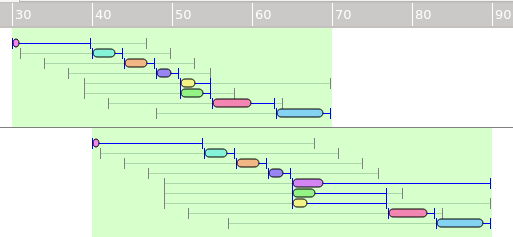
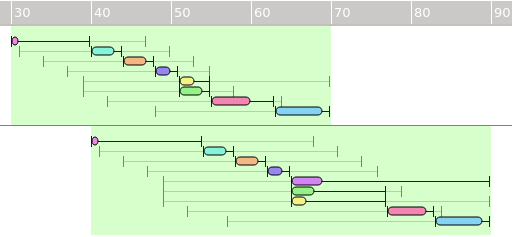
producten tekst erbij en plaatje flex-interval aangepast

Changed region(s): [[0.0, 0.1477, 1.0, 1.0], [0.0, 0.0, 1.0, 0.1181]]

diff --git a/verslag/eindverslag/content/producten.tex b/verslag/eindverslag/content/producten.tex
@@ -18,13 +18,14 @@ Hoe het toevoegen van rows gebeurt enzo...
 \subsection{Interface}
 De grootste veranderingen aan de interface zijn het weergeven van de chains en de flexibiliteitsintervallen. Deze worden als volgt in de interface weergegeven:
 
-\begin{figure}
-\includegraphics[width=\textwidth]{../images/GUIfinal.png}
+\begin{figure}[H]
+\centering
+\includegraphics[width=.95\textwidth]{../images/GUIfinal.png}
 \caption{De grafische gebruikersinterface.}
 \label{fig:GUIfinal}
 \end{figure}
 
-In het bovenstaande figuur is in de rechterbovenhoek een schuifbalk te zien, waarmee verschillende stappen van het proces van de solver laten zien kunnen worden in de interface. Naar zo'n stap, waarin de toestand van alle activiteiten opgeslagen in, zal vanaf nu gerefereerd worden als een frame. De volgende frames worden toegevoegd na het uitvoeren van een solver:
+In Figuur \ref{fig:GUIfinal} is in de rechterbovenhoek een schuifbalk te zien, waarmee verschillende stappen van het proces van de solver laten zien kunnen worden in de interface. Naar zo'n stap, waarin de toestand van alle activiteiten opgeslagen in, zal vanaf nu gerefereerd worden als een frame. De volgende frames worden toegevoegd na het uitvoeren van een solver:
 \begin{itemize}
 \item Een frame met de begintoestand van de instantie.
 \item Voor elke voorrangsrelatie die tijdens het ESTA$^+$ algoritme toegevoegd wordt, een nieuw frame met daarop alleen de nieuwe voorrangsrelatie en eventuele veranderingen in starttijden van de activiteiten.
@@ -38,12 +39,22 @@ In het frame dat in Figuur \ref{fig:GUIfinal} zichtbaar is, wordt een chain van 
 
 %Zodra de solver klaar is met het vinden van een oplossing voor de huidige instantie, wordt deze oplossing als output gegeven en geparsed door de planner. Vervolgens worden in de interface voor elke resource eerst een frame met alle chains van deze resource en toegevoegd en daarna voor al deze chains een aparte frame.
 
-- weergeven van flexibiliteitsintervals
-- verschuiven van taken/resources
+\subsubsection*{Flexibiliteitsintervallen}
+Zoals in Figuur \ref{fig:flex-interval} is te zien, is het ook mogelijk om het flexibiliteitsinterval van elke activiteit weer te geven in de interface. Activiteiten kunnen vrij bewegen binnen het flexibiliteitsinterval zonder dat er conflicten ontstaan met andere activiteiten. Als de intervallen worden weergegeven, is het niet mogelijk om de activiteiten buiten het bijbehoorende interval te verplaatsen. Ook is het niet mogelijk activiteiten zodanig langer te maken dat ze buiten hun flexibiliteitsinterval vallen. Die twee ==dingen== zijn niet mogelijk om ervoor te zorgen dat het schema flexibel blijft. Als het weergeven van de flexibiliteitsintervallen wordt uitgezet kunnen de activiteiten wel verplaatst en vergroot worden buiten het flexibiliteitsinterval.
 
-Waar eerst instanties gesloten konden worden met een grote rode knop in de menubalk, is er nu op elke tab van een instantie een kruisje geplaatst, waarmee de instantie gesloten kan worden. Dit ontwerp ziet er intu\"itief uit en wordt ook gebruikt door bijvoorbeeld de veelgebruikt browser Google Chrome.
+\begin{figure}[H]
+\center
+\includegraphics[width=.7\textwidth]{../images/flex-interval.png}
+\caption{Flexibiliteitsintervallen}
+\label{fig:flex-interval}
+\end{figure}
+
+\subsubsection*{Gebruiksgemak}
+Om het gebruiksgemak te vegroten zijn er een aantal sneltoetsen toegevoegd. Ook is het sluiten van instanties veranderd, want waar eerst instanties gesloten konden worden met een grote rode knop in de menubalk, is er nu op elke tab van een instantie een klein kruisje geplaatst, waarmee de instantie gesloten kan worden. Dit ontwerp ziet er intu\"itief uit en wordt ook gebruikt door veel bekende browsers zoals Google Chrome en Mozilla FireFox.
 
 Er zijn ook sneltoetsen toegevoegd voor het in- en uitzoomen en voor het horizontaal scrollen. Er kan in- en uitgezoomd worden door de ctrl-toets ingedrukt te houden en het scrollwiel van de muis  te bewegen. Horizontaal scrollen kan in het venster waarin de muis zich op dat moment bevindt door de shift-toets ingedrukt te houden en het scrollwiel van de muis te bewegen. Deze sneltoetsen zijn ingesteld zodat de gebruiker makkelijker door een probleeminstantie kan navigeren, zonder daarvoor steeds zijn muis naar de menubalk te hoeven verplaatsen.
+
+Nog een feature die voor een verbeterd gebruiksgemak moet zorgen zijn de knopjes voor het van plek verwisselen van taken en resources. Dit is vooral handig als er een nieuwe activiteit of resource wordt toegevoegd, want deze worden altijd onderaan gezet. 
 
 \subsection{Windows 7}
 Om de toegankelijkheid van de applicatie te vergroten, is ervoor gezorgd dat deze ook op het besturingssysteem Windows 7 werkt. Hierbij is het ook nog steeds mogelijk om deze op Unix-based systemen te draaien, zoals Ubuntu. Alle functies van het programma moeten dus zowel op Windows 7 als op Ubuntu correct werken.
